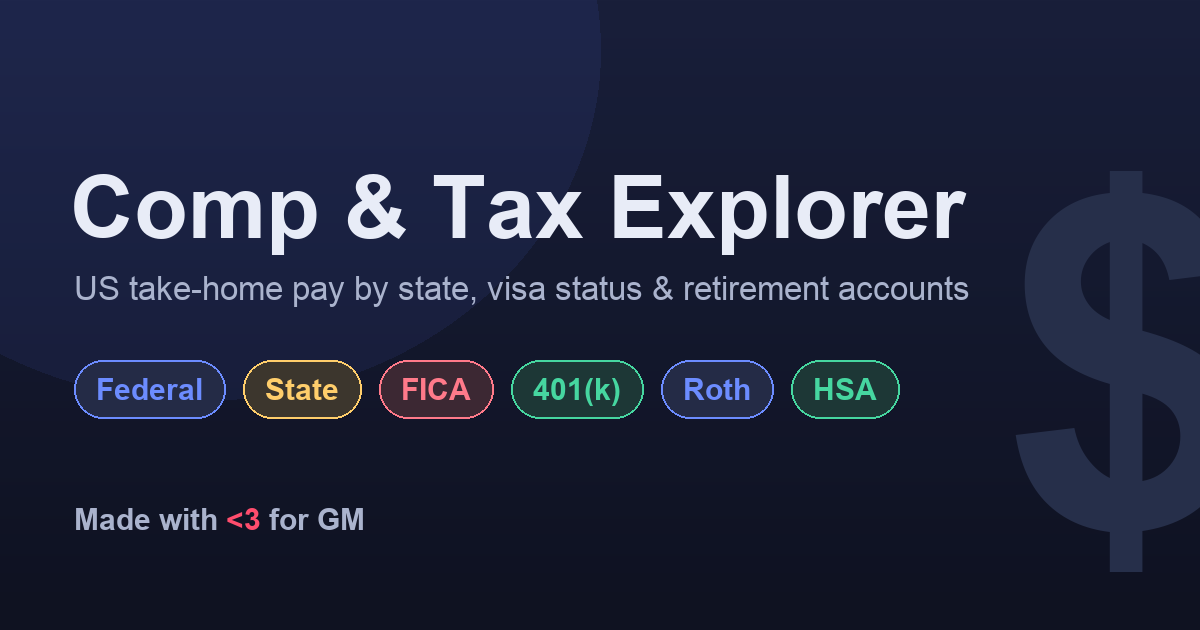
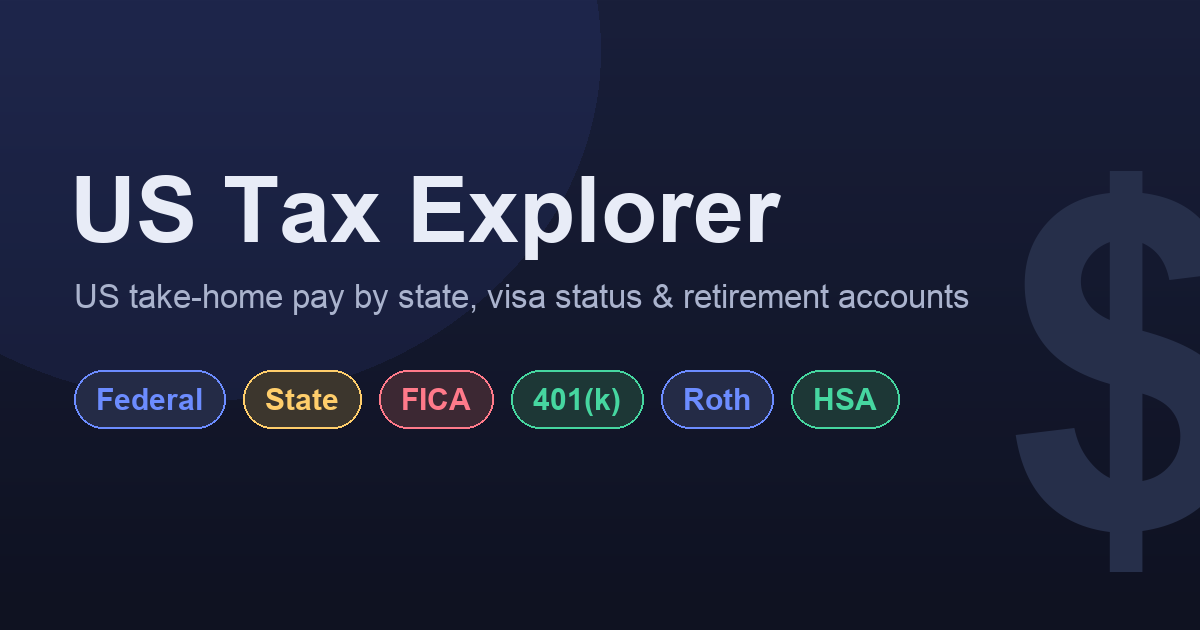
Rename to US Tax Explorer (title, heading, thumbnail)

Changed region(s): [[0.0617, 0.2714, 0.8017, 0.5127], [0.0617, 0.573, 0.7708, 0.6937], [0.0617, 0.7841, 0.3083, 0.8444]]

diff --git a/index.html b/index.html
@@ -3,7 +3,7 @@
 <head>
 <meta charset="UTF-8" />
 <meta name="viewport" content="width=device-width, initial-scale=1.0" />
-<title>Comp & Tax Explorer</title>
+<title>US Tax Explorer</title>
 <style>
   :root {
     --bg: #0f1221;
@@ -226,7 +226,7 @@
   Uses simplified 2025 figures; verify with a qualified CPA before making any decisions.
 </div>
 <header>
-  <h1>💸 Comp &amp; Tax Explorer</h1>
+  <h1>💸 US Tax Explorer</h1>
   <p>Estimate take-home pay across states by visa/residency status — and see how 401(k) and mega-backdoor Roth change the picture. Educational estimates only, 2025 figures.</p>
   <button id="shareBtn" class="sharebtn">🔗 Copy share link</button>
 </header>

diff --git a/README.md b/README.md
@@ -1,5 +1,5 @@
 ---
-title: Comp & Tax Explorer
+title: US Tax Explorer
 emoji: 💸
 colorFrom: indigo
 colorTo: green
@@ -10,7 +10,7 @@ thumbnail: thumbnail.png
 short_description: US take-home pay by state, visa status, 401k & Roth
 ---
 
-# 💸 Comp & Tax Explorer
+# 💸 US Tax Explorer
 
 Estimate your US take-home pay across states based on your compensation mix and
 immigration/tax-residency status — and see, live, how 401(k), Roth 401(k), Roth IRA /